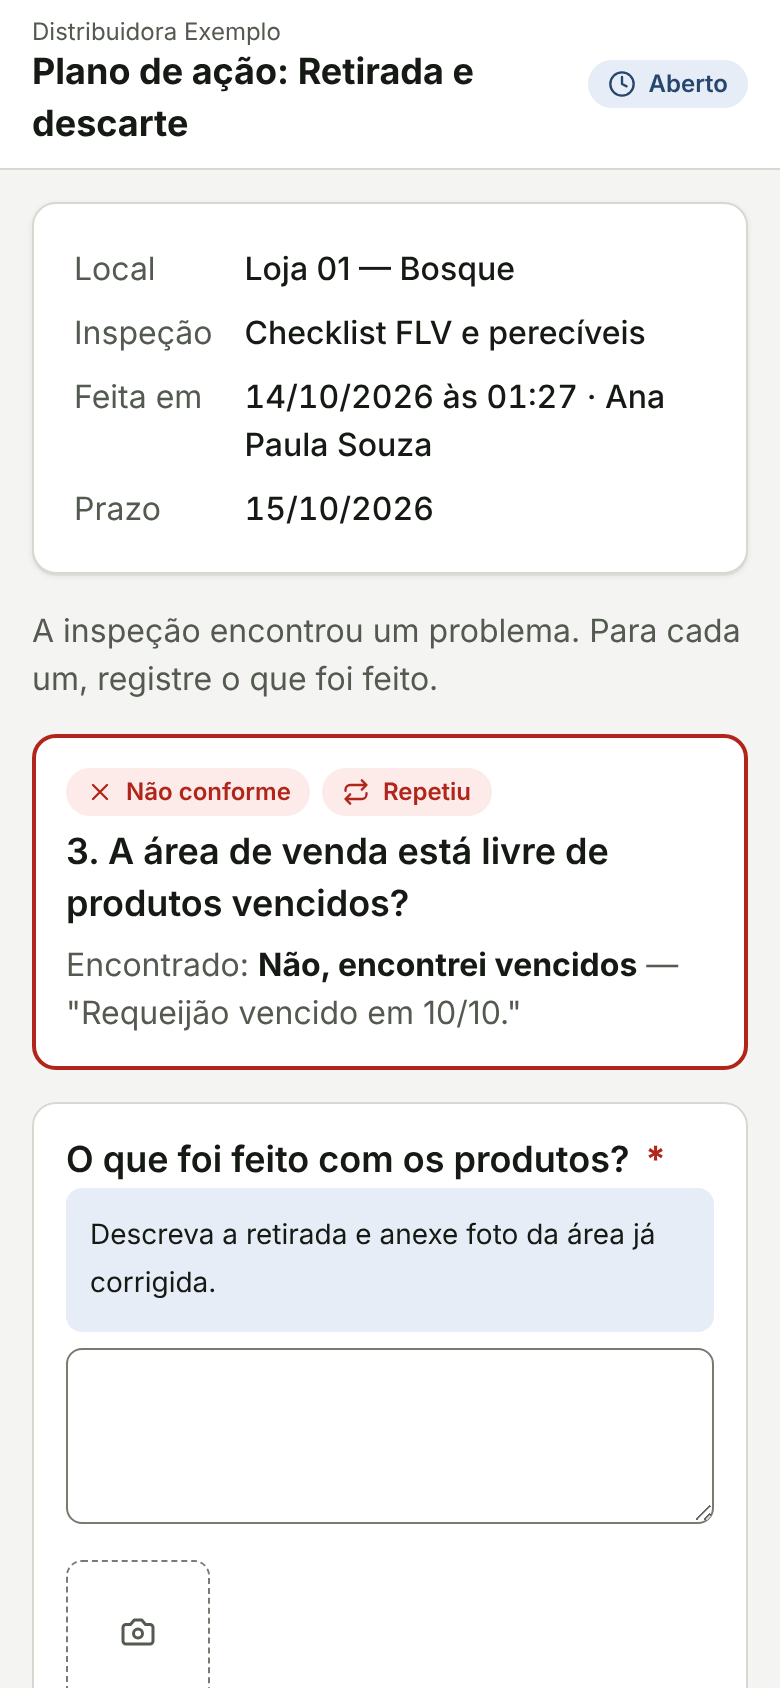
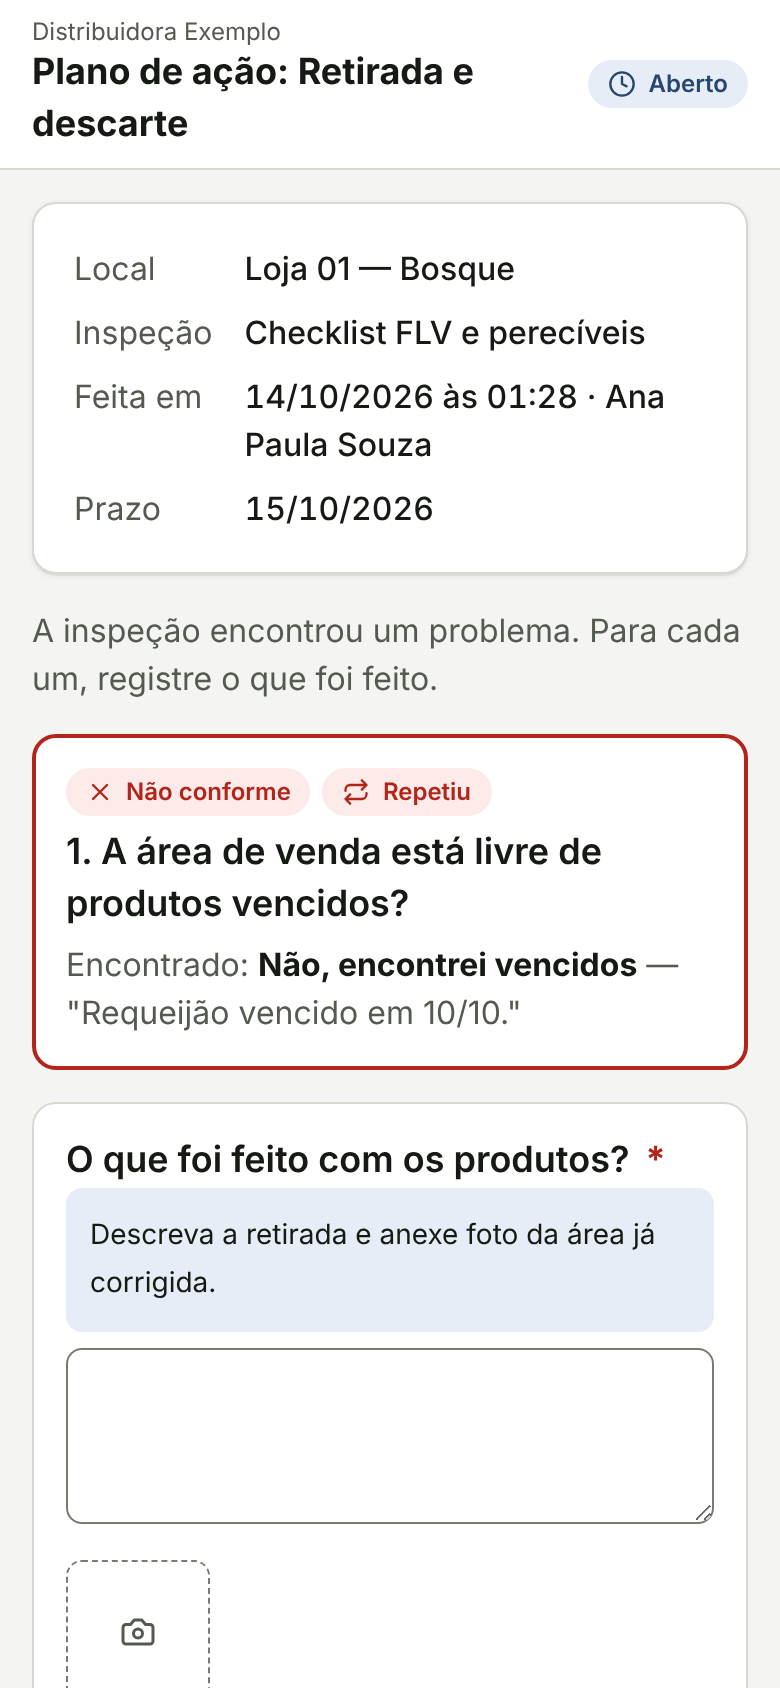
build: numeração na página pública do plano; docs do marco 2
Claude-Session: https://claude.ai/code/session_0121TKXBoDkWTE3KbsuVPrfd

Changed region(s): [[0.0923, 0.4929, 0.7692, 0.5237], [0.7077, 0.2156, 0.7385, 0.2464]]

diff --git a/app/src/data/server.ts b/app/src/data/server.ts
@@ -442,10 +442,11 @@ export const server = {
     if (!p) throw new Error("Este link não vale mais. Ele pode ter sido substituído por um mais novo; confira o último e-mail recebido.");
     const i = s.inspecoes.find((x) => x.id === p.inspecao_id)!;
     const v = s.versoes.find((x) => x.id === i.formulario_versao_id)!;
+    const todas = v.definicao.topicos.flatMap((t) => t.questoes); // numeração global, como no formulário
     const nc = p.questao_keys.map((k) => {
-      let numero = 0, q = null as null | (typeof v.definicao.topicos)[number]["questoes"][number];
-      for (const t of v.definicao.topicos) for (const x of t.questoes) { numero++; if (x.key === k) { q = x; break; } if (q) break; }
-      return { key: k, numero, titulo: q?.titulo ?? "Questão", resposta: i.respostas[k], questao: q, reincidente: !!i.resultado.questoes[k]?.reincidente };
+      const pos = todas.findIndex((x) => x.key === k);
+      const q = pos >= 0 ? todas[pos]! : null;
+      return { key: k, numero: pos + 1, titulo: q?.titulo ?? "Questão", resposta: i.respostas[k], questao: q, reincidente: !!i.resultado.questoes[k]?.reincidente };
     });
     return {
       plano: { ...clone(p), situacao: situacao(p, hojeNaOrg()) },

diff --git a/app/src/web/Planos.tsx b/app/src/web/Planos.tsx
@@ -73,7 +73,7 @@ function Historico({ me }: { me: Membro }) {
           <>
             <p className="muted" aria-live="polite" style={{ margin: "0 0 var(--space-2)" }}>
               {lista.data.length} {lista.data.length === 1 ? "plano" : "planos"}
-              {!situacao ? <> · {contagem.aberto} abertos · <span style={{ color: contagem.em_atraso ? "var(--c-danger)" : undefined }}>{contagem.em_atraso} em atraso</span> · {contagem.finalizado} finalizados</> : null}
+              {!situacao ? <> · {contagem.aberto} {contagem.aberto === 1 ? "aberto" : "abertos"} · <span style={{ color: contagem.em_atraso ? "var(--c-danger)" : undefined }}>{contagem.em_atraso} em atraso</span> · {contagem.finalizado} {contagem.finalizado === 1 ? "finalizado" : "finalizados"}</> : null}
             </p>
             <div className="table-wrap responsive">
               <table className="table">

diff --git a/replica/build-log.md b/replica/build-log.md
@@ -55,3 +55,30 @@ Todo o código, texto, ícone e cor foram escritos aqui, a partir do recon e das
 3. Desligar o modo avião do app não disparava o sync automático.
 4. Linha mal formada no `features.csv` do recon (vírgula sem aspas).
 5. O Bun grava o bundle ao lado da entrada quando recebe `--outfile` relativo; o build usa `--outdir` absoluto e falha se o arquivo não existir.
+
+## Marco 2 — obrigatórias restantes · 14/10/2026 · concluído no que dá para fazer sem backend
+
+Nenhuma funcionalidade obrigatória está mais em "não": **21 feitas e 10 parciais de 31**. As parciais dependem do backend real (login, e-mail de verdade, multiempresa) ou são detalhes menores listados na matriz.
+Testes: `tests/e2e-marco2.mjs` (23 verificações). Suíte inteira (`scripts/test.sh`): 19 do motor + 50 ponta a ponta, verde em 3 rodadas seguidas.
+
+| tela | estado | o que falta | o que foi mais difícil do que parecia |
+|---|---|---|---|
+| S16 Relatório | parcial | layout configurável (logos, cor, colunas) — marco 3 | — |
+| S23 Importar avaliados | feito | — | ler .xlsx sem biblioteca: zip + XML na mão, com textos compartilhados e "rich text" do Excel |
+| S24 Histórico de planos | feito | exportar | ordem instável quando dois planos nascem no mesmo milissegundo |
+| S25 Modelos de plano | feito | aprovação do plano (marco 3) | — |
+| S26 Responder plano (público) | feito | — | o motor só cobra a foto depois da resposta; a página avisa as duas coisas de uma vez |
+| E-mails enviados | feito (simulação) | envio real (Resend) no backend | — |
+
+### Decisões tomadas sem confirmação (revisar)
+- **Destinatário do plano:** o modelo escolhe entre o e-mail do avaliado ou um e-mail fixo (ex.: manutenção). Sem e-mail, o plano é criado mesmo assim e o gestor gera o link para mandar por outro canal.
+- **"Copiar link":** o banco guarda só o hash do token, então o link não pode ser mostrado de novo. "Gerar novo link" cria outro e **invalida o anterior** (o original permite copiar o mesmo link).
+- **Modelo editado não muda planos já abertos:** cada plano guarda uma cópia do modelo da época.
+- **Importação:** casa por código; sem código, casa por nome igual (sem diferenciar maiúsculas). Linhas com problema são ignoradas e listadas; o resto entra.
+
+### Bugs encontrados pelos testes e corrigidos
+1. **Aba nova já logada ficava em branco.** O redirecionamento inicial trocava a URL antes de o roteador começar a escutar. Os testes do marco 1 não pegaram porque sempre abriam numa rota final.
+2. **O bundle levava o React de desenvolvimento** (980 KB → 810 KB e mais rápido ao corrigir).
+3. Reenviar uma inspeção repetia o evento "relatório enviado" no histórico (o e-mail em si já não repetia).
+4. A validação nativa do navegador escondia as nossas mensagens nos campos de e-mail.
+5. A página pública numerava a não conformidade errado ("3." em vez de "1.").
